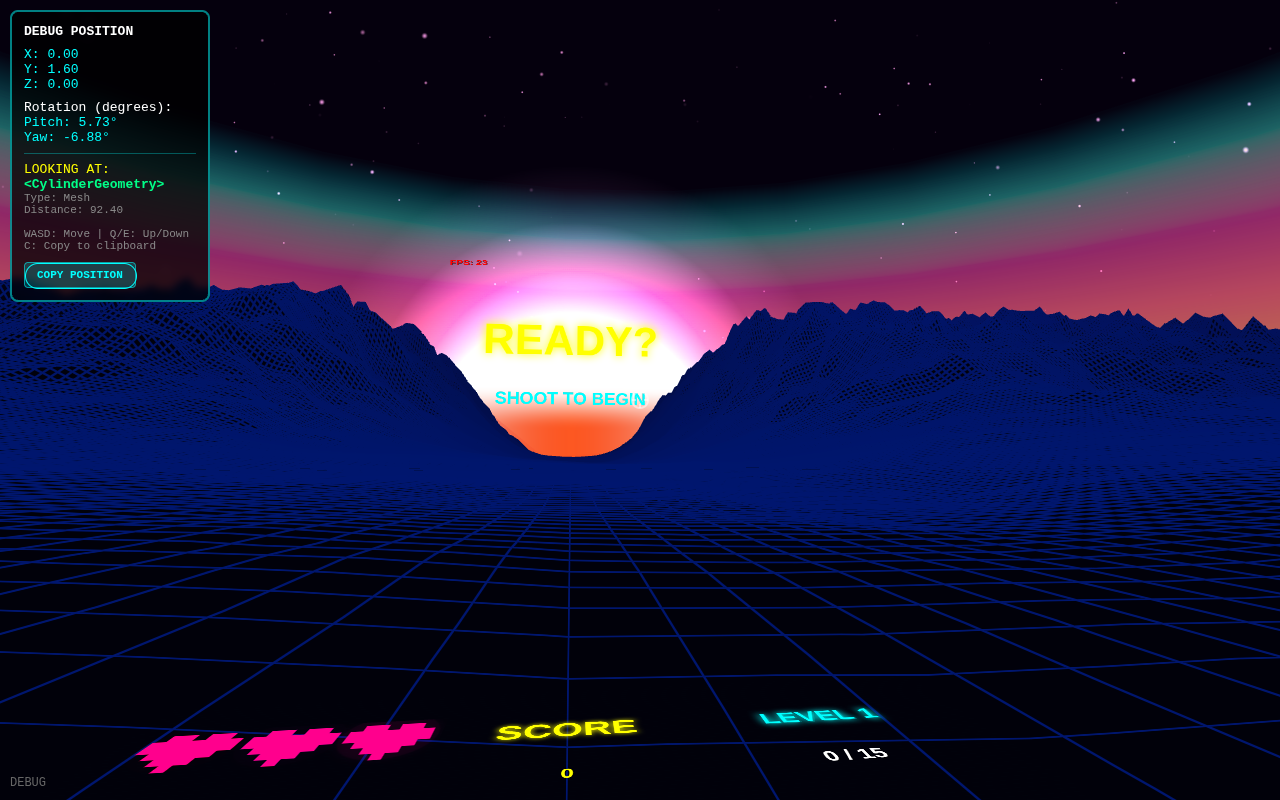
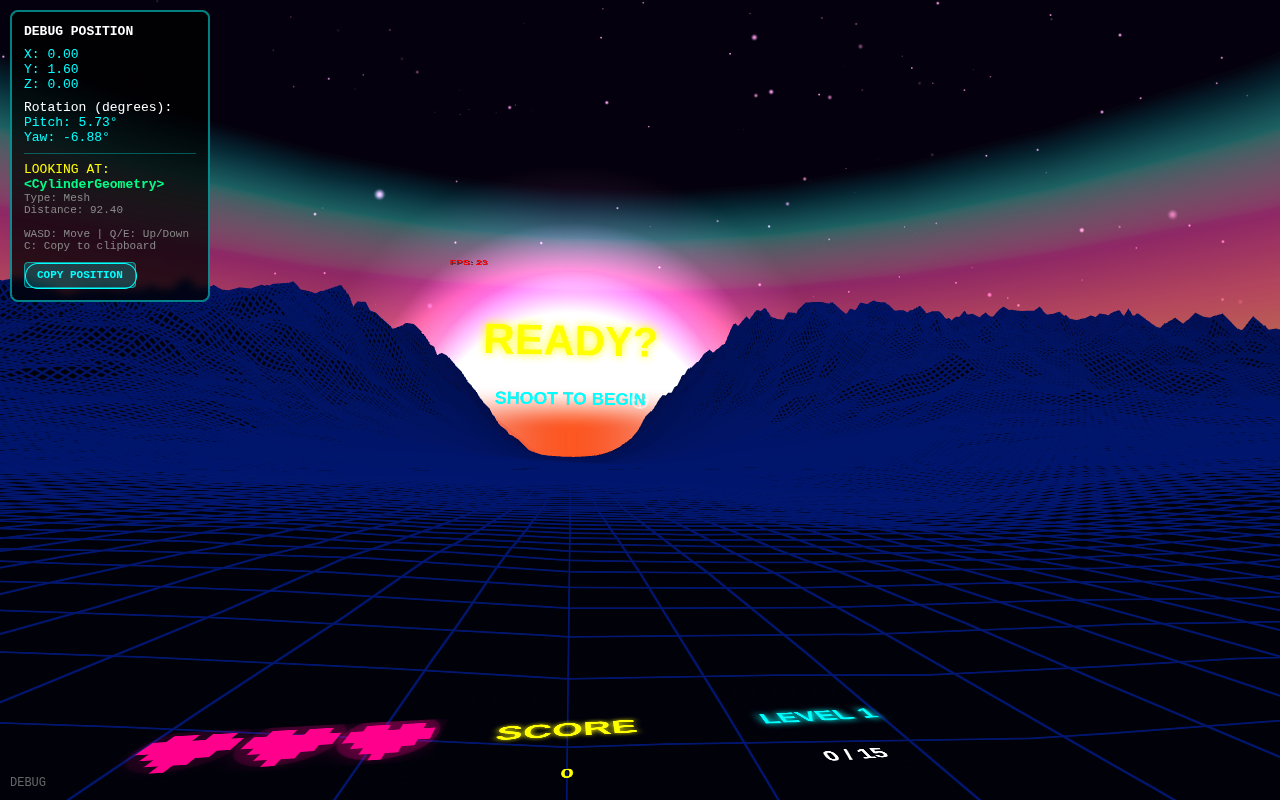
fix: Update horizon cylinder colors to synthwave orange/pink/purple gradient
- Changed horizon cylinder texture from pink (#ffaacc) to synthwave colors
- Horizon gradient: #FE9053 (orange) → #E00186 (pink) → #2C0051 (purple)
- Inner horizon ring: 0xffccee → 0xFE9053 (horizon orange)

Changed region(s): [[0.0938, 0.875, 0.3438, 0.9688]]

diff --git a/main.js b/main.js
@@ -585,15 +585,16 @@ function createEnvironment() {
   const horizonSegments = 48;
 
   // Create gradient texture for horizon glow (bright at bottom, fading up)
+  // EXACT synthwave colors: Horizon #FE9053 (orange) → Pink #E00186 → Purple #2C0051
   const horizonCanvas = document.createElement('canvas');
   horizonCanvas.width = 4;
   horizonCanvas.height = 64;
   const horizonCtx = horizonCanvas.getContext('2d');
   const horizonGrad = horizonCtx.createLinearGradient(0, 64, 0, 0);
-  horizonGrad.addColorStop(0, '#ffaacc');   // Bright pinkish-white at base
-  horizonGrad.addColorStop(0.3, '#ff66aa');
-  horizonGrad.addColorStop(0.7, '#ff225588');
-  horizonGrad.addColorStop(1.0, '#ff000000');
+  horizonGrad.addColorStop(0, '#FE9053');   // EXACT: Horizon orange at base
+  horizonGrad.addColorStop(0.4, '#E00186'); // EXACT: Mountain tips pink
+  horizonGrad.addColorStop(0.7, '#2C005188');
+  horizonGrad.addColorStop(1.0, '#1A004A00');
   horizonCtx.fillStyle = horizonGrad;
   horizonCtx.fillRect(0, 0, 4, 64);
 
@@ -613,9 +614,10 @@ function createEnvironment() {
   registerFadeMaterial(horizonRingRef.material);
 
   // Second brighter, shorter glow layer for intensity at ground level
+  // EXACT synthwave color: Horizon orange #FE9053
   const horizonInnerGeo = new THREE.CylinderGeometry(horizonRadius - 0.5, horizonRadius - 0.5, 1.5, horizonSegments, 1, true);
   const horizonInnerMat = new THREE.MeshBasicMaterial({
-    color: 0xffccee,
+    color: 0xFE9053,  // EXACT: Horizon orange
     transparent: true,
     opacity: 0.5,
     side: THREE.BackSide,

diff --git a/index.html b/index.html
@@ -182,7 +182,7 @@
       </div>
     </div>
     
-    <p id="version-text" style="font-size: 1em; opacity: 0.6; margin-top: 12px;">v2026.03.17.2355</p>
+    <p id="version-text" style="font-size: 1em; opacity: 0.6; margin-top: 12px;">v2026.03.18.0819</p>
   </div>
 
   <!-- Fallback if WebXR is not available -->
@@ -246,7 +246,7 @@
   <script type="module" src="main.js"></script>
   <script>
     (function() {
-      const GAME_VERSION = 'v2026.03.17.2355';
+      const GAME_VERSION = 'v2026.03.18.0819';
       document.title = GAME_VERSION;
       const versionEl = document.getElementById('version-text');
       if (versionEl) versionEl.textContent = GAME_VERSION;
